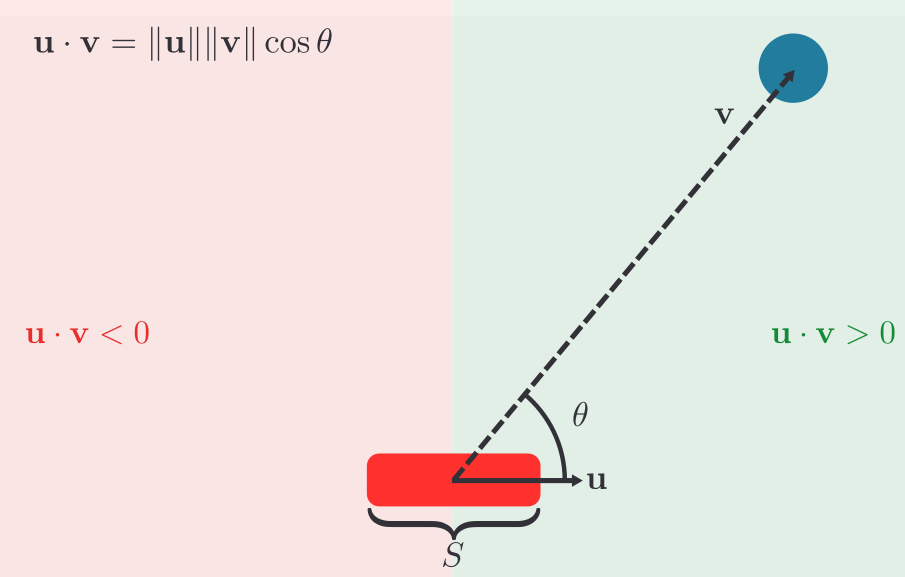
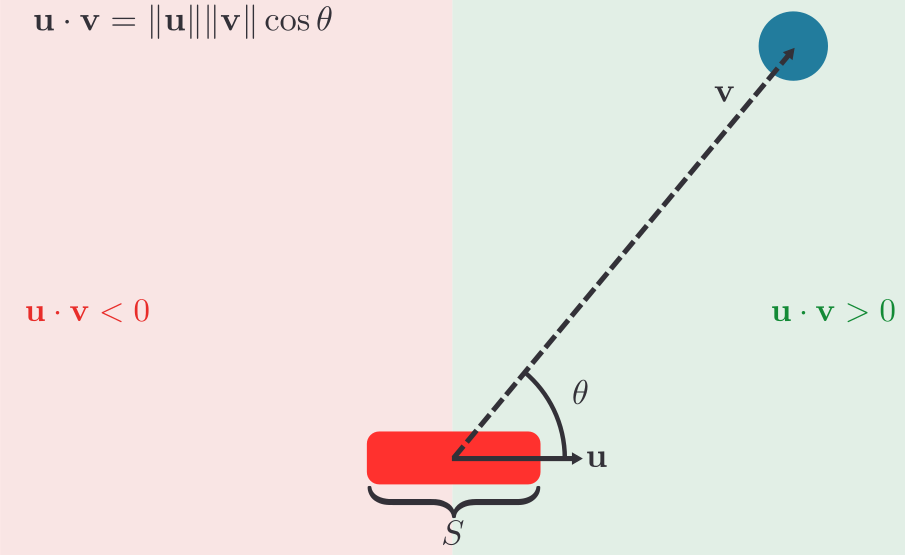
Hotfixes

diff --git a/TECHNICAL_DESIGN.html b/TECHNICAL_DESIGN.html
@@ -1024,6 +1024,54 @@ $$</p>
     <span class="hljs-keyword">this</span>.velocity = positiveDirection.scale(direction * moveSpeed);
 }
 </div></code></pre>
+<p>Because we might want an automated player in the future. We will create a method <code>setDirectionAutomatically</code> which takes a list of <code>Ball</code>s called <code>balls: [Ball]</code> and set the direction so that the player can bounce the closest ball. Let $\mathbf{u}$ be the <code>positiveDirection</code> vector, $\mathbf{b}_x$ be the position of the closest <code>Ball</code> in <code>balls</code>, $\mathbf{x}$ be the <code>Player</code>'s center, and $\mathbf{v} = \mathbf{b}_x - \mathbf{x}$. We can compute $\mathbf{x}$ by averaging the vertices of the <code>Player</code>'s <code>RectangleCollider</code>. We will also define player's paddle span to be $S = \max{\left({\mathtt{collider.width}, \mathtt{collider.height}}\right)}$.</p>
+<p><img src="document_assets/automated_player.png" alt="Automated Player Movement"></p>
+<p>Recall that <code>positiveDirection</code> has unit length so</p>
+<p>$$
+\mathbf{u} \cdot \mathbf{v} = \lVert \mathbf{u} \rVert \lVert \mathbf{v} \rVert \cos{\theta} = \lVert \mathbf{v} \rVert \cos{\theta}
+$$</p>
+<p>From both geometry and linear algebra, the above equation implies that $\mathbf{u} \cdot \mathbf{v}$ is the (signed) distance the ball is from the paddle's center in the direction of $\mathbf{u}$.</p>
+<p>If the absolute value of this quantity is less that $\frac{S}{2}$, then the paddle does not need to move because the ball is in the &quot;span&quot; of the paddle and thus can be reached. However if the paddle cannot reach the ball, we need to move the paddle.</p>
+<p>The direction we should move the paddle is completely dictated by the sign of the $\cos{\theta}$ term which matches the sign of $\mathbf{u} \cdot \mathbf{v}$ as $\lVert \mathbf{v} \rVert$ is positive. If $\mathbf{u} \cdot \mathbf{v}$ is positive, the paddle needs to move in the positive direction, and move in the negative direction otherwise. See the figure above to visualize this argument.</p>
+<pre class="hljs"><code><div><span class="hljs-comment">/**
+ * Sets the direction of the player automatically based on the closest
+ * ball
+ * <span class="hljs-doctag">@param</span> balls a list of balls currently in play
+ */</span>
+<span class="hljs-function"><span class="hljs-keyword">public</span> <span class="hljs-keyword">void</span> <span class="hljs-title">setDirectionAutomatically</span><span class="hljs-params">(ArrayList&lt;Ball&gt; balls)</span> </span>{
+    Vec2d[] verticesAndBasis = collider.computeVerticesAndBasis();
+    <span class="hljs-comment">// Find the paddle's center by averaging the vertices</span>
+    Vec2d paddleCenter = verticesAndBasis[<span class="hljs-number">0</span>]
+            .add(verticesAndBasis[<span class="hljs-number">1</span>])
+            .add(verticesAndBasis[<span class="hljs-number">2</span>])
+            .add(verticesAndBasis[<span class="hljs-number">3</span>])
+            .scale(<span class="hljs-number">0.25</span>);
+    <span class="hljs-comment">// Find the closest ball using a Comparator</span>
+    balls.stream()
+        .min((b1, b2) -&gt; {
+            <span class="hljs-keyword">double</span> d1 = b1.getPosition().sub(paddleCenter).mag();
+            <span class="hljs-keyword">double</span> d2 = b2.getPosition().sub(paddleCenter).mag();
+            <span class="hljs-keyword">return</span> Double.compare(d1, d2);
+        })
+        .ifPresent(b -&gt; {
+            <span class="hljs-keyword">double</span> signedMagnitude = b.getPosition()
+                    .sub(paddleCenter)
+                    .dot(positiveDirection);
+            <span class="hljs-keyword">double</span> paddleSpan = Math.max(
+                            collider.getHeight(), 
+                            collider.getWidth()
+                        ) / <span class="hljs-number">2</span>;
+            <span class="hljs-keyword">if</span> (Math.abs(signedMagnitude) &lt; paddleSpan) {
+                <span class="hljs-comment">// The ball is in the paddle's span so do not move</span>
+                setDirection(<span class="hljs-number">0</span>);
+            } <span class="hljs-keyword">else</span> <span class="hljs-keyword">if</span> (signedMagnitude &lt; <span class="hljs-number">0</span>) {
+                setDirection(-<span class="hljs-number">1</span>);
+            } <span class="hljs-keyword">else</span> {
+                setDirection(<span class="hljs-number">1</span>);
+            }
+        });
+}
+</div></code></pre>
 <h3 id="the-ball-entity">The Ball Entity</h3>
 <p>Like the <code>Player</code> class, the <code>Ball</code> will be characterized by its <code>Collider</code> <code>collider: BallCollider</code> which holds both the <code>Ball</code>'s position and radius. The <code>Ball</code> class will also have a <code>lastContactFreeLocation: Vec2d</code> to help revert the <code>Ball</code> back to a collision free state. The constructor is shown below and it follows the same format as the previous two entities.</p>
 <pre class="hljs"><code><div><span class="hljs-function"><span class="hljs-keyword">public</span> <span class="hljs-title">Ball</span><span class="hljs-params">(
@@ -1105,6 +1153,7 @@ $$</p>
 </div></code></pre>
 <p>Diagrammatically what we have developed in this section is shown below</p>
 <p><img src="document_assets/entity_uml_img.png" alt="Entity UML Diagram"></p>
+<h2 id="implementing-pong-with-the-engine">Implementing Pong with the Engine</h2>
 <script src="https://polyfill.io/v3/polyfill.min.js?features=es6"></script>
 <script id="MathJax-script" async src="https://cdn.jsdelivr.net/npm/mathjax@3/es5/tex-mml-chtml.js"></script>
 <script>
